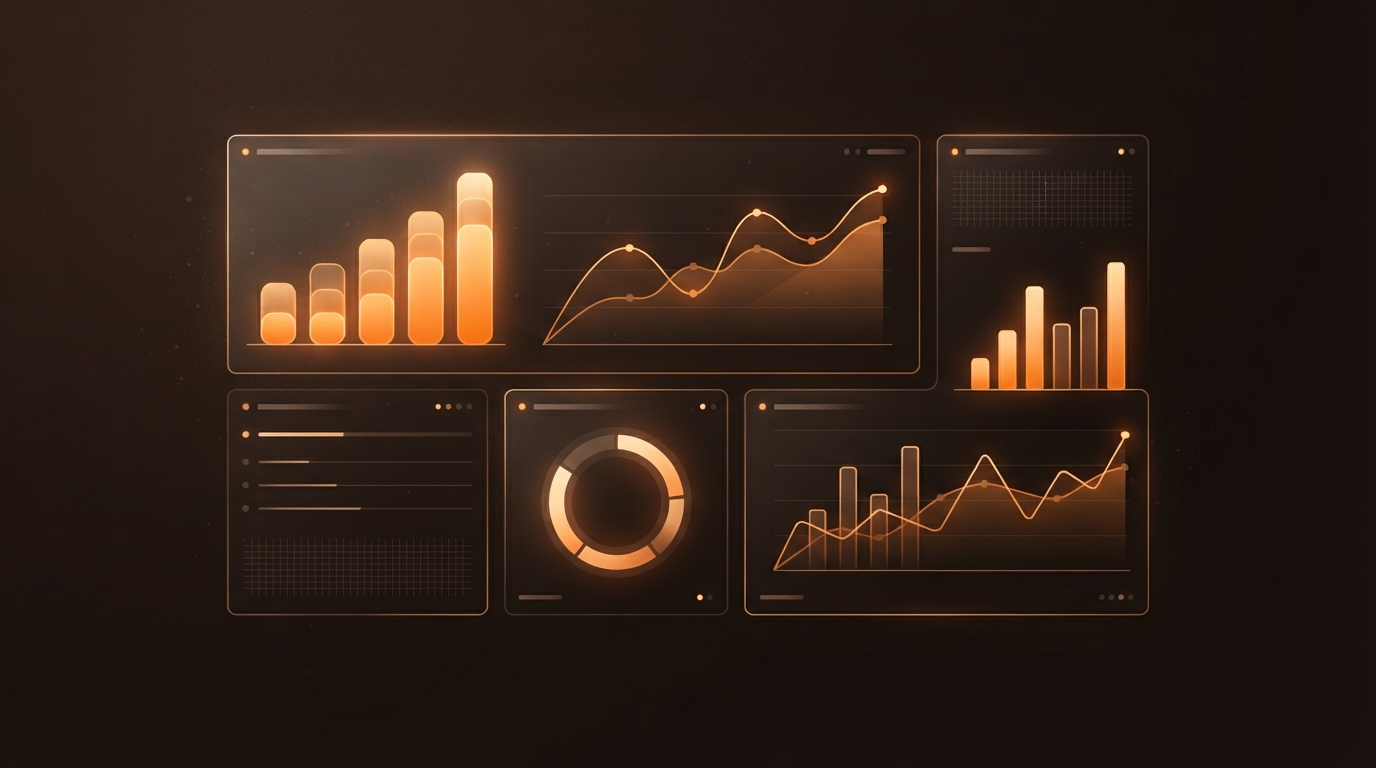
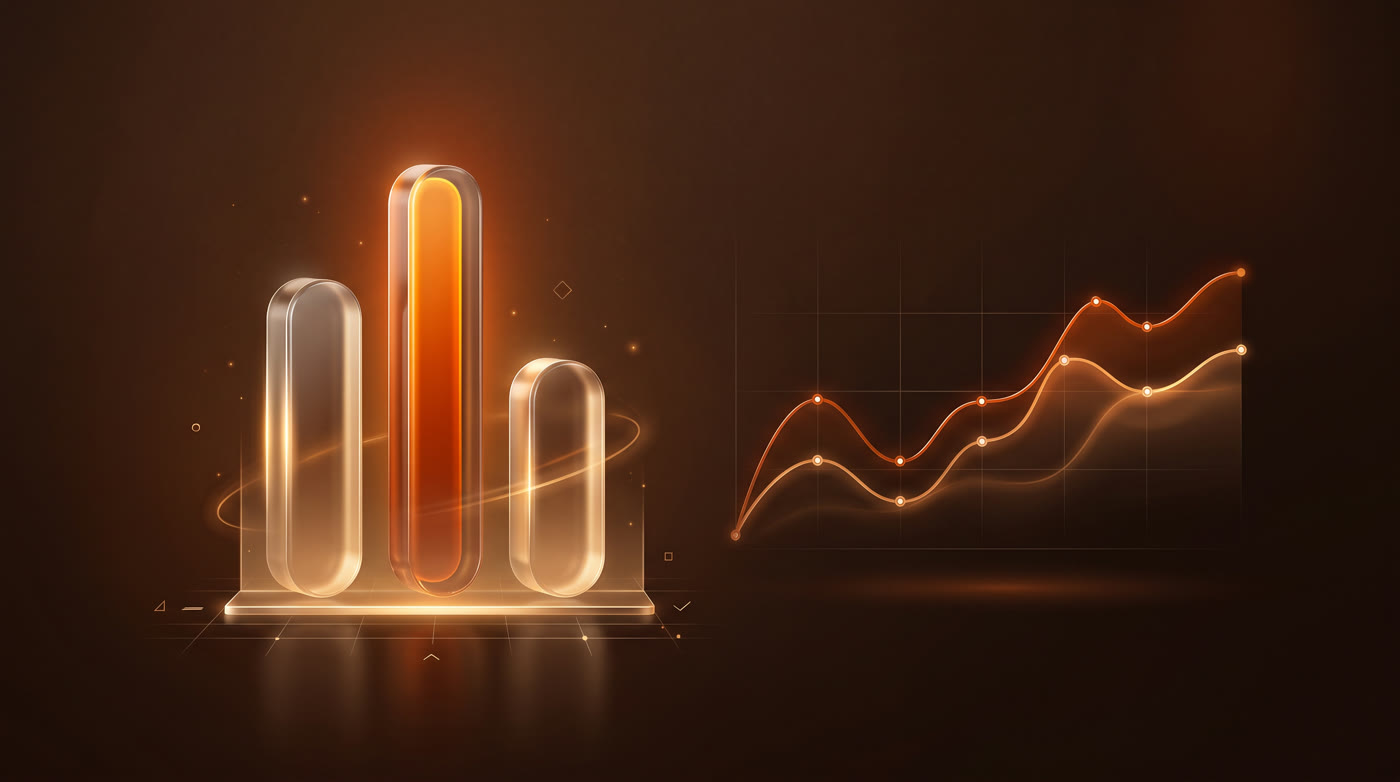
Escopo do texto: só Sites/E-commerce ficam minimalistas
Automações & IA volta a ter kicker/título/descrição — o corte de
texto era só pra Sites e E-commerce. Regenera as 3 ilustrações de
automação em qualidade bem mais alta (nano-banana-2 em 2K em vez
do lite), comprimidas pra ~70-140KB cada. Atualiza o número de
WhatsApp real no botão da sidebar.

diff --git a/src/components/ProjectExplorer.tsx b/src/components/ProjectExplorer.tsx
@@ -109,7 +109,45 @@ function StackItem({
 }
 
 function Card({ project }: { project: Project }) {
-  const body = (
+  const body = project.flat ? (
+    <div
+      className="relative flex flex-col overflow-hidden rounded-[28px]"
+      style={{ backgroundColor: project.bg }}
+    >
+      {project.image && (
+        <div className="relative aspect-[16/10] w-full">
+          <Image
+            src={project.image}
+            alt={project.title}
+            fill
+            sizes="(min-width: 1024px) 560px, 90vw"
+            className="object-cover transition-transform duration-500 ease-out group-hover:scale-[1.03]"
+          />
+        </div>
+      )}
+
+      <div className="flex flex-col gap-1 px-8 py-6">
+        <p
+          className="text-xs font-medium tracking-wide uppercase opacity-60"
+          style={{ color: project.label }}
+        >
+          {project.kicker}
+        </p>
+        <h3
+          className="font-display text-xl font-semibold tracking-tight sm:text-2xl"
+          style={{ color: project.label }}
+        >
+          {project.title}
+        </h3>
+        <p
+          className="max-w-md text-sm leading-relaxed opacity-70"
+          style={{ color: project.label }}
+        >
+          {project.description}
+        </p>
+      </div>
+    </div>
+  ) : (
     <div
       className="relative flex h-[400px] items-center justify-center overflow-hidden rounded-[28px] sm:h-[460px]"
       style={{ backgroundColor: project.bg }}
@@ -120,18 +158,7 @@ function Card({ project }: { project: Project }) {
         </span>
       )}
 
-      {project.flat && project.image ? (
-        <>
-          <Image
-            src={project.image}
-            alt={project.title}
-            fill
-            sizes="(min-width: 1024px) 560px, 90vw"
-            className="object-cover transition-transform duration-500 ease-out group-hover:scale-[1.03]"
-          />
-          <div className="pointer-events-none absolute inset-x-0 bottom-0 h-24 bg-gradient-to-t from-black/50 to-transparent" />
-        </>
-      ) : project.video || project.image ? (
+      {project.video || project.image ? (
         <div className="w-full max-w-[88%] overflow-hidden rounded-xl bg-white shadow-[0_30px_60px_-20px_rgba(0,0,0,0.5)] transition-transform duration-500 ease-out group-hover:-translate-y-1.5">
           <div className="flex h-6 items-center gap-1.5 border-b border-black/5 bg-white px-3">
             <span className="h-1.5 w-1.5 rounded-full bg-black/10" />

diff --git a/src/components/Sidebar.tsx b/src/components/Sidebar.tsx
@@ -1,8 +1,7 @@
 import Image from "next/image";
 import { Mail, MessageCircle } from "lucide-react";
 
-// TODO: confirmar número de WhatsApp real antes de enviar pro cliente
-const WHATSAPP_NUMBER = "5511999999999";
+const WHATSAPP_NUMBER = "5511947471469";
 
 const STACK = ["Next.js", "n8n", "Supabase", "Claude Code"];
 
